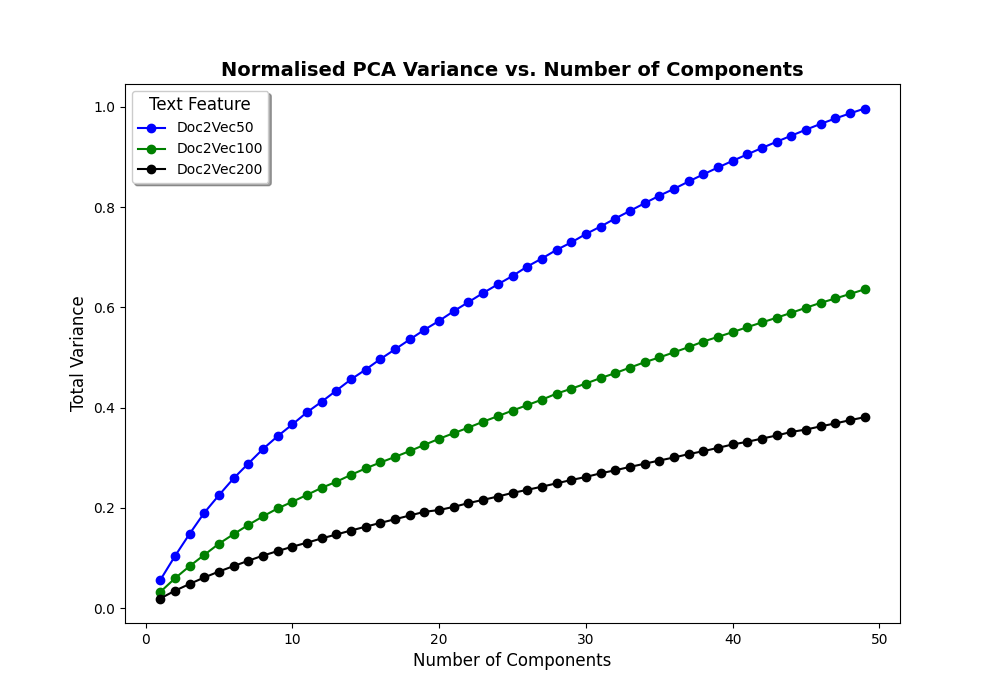
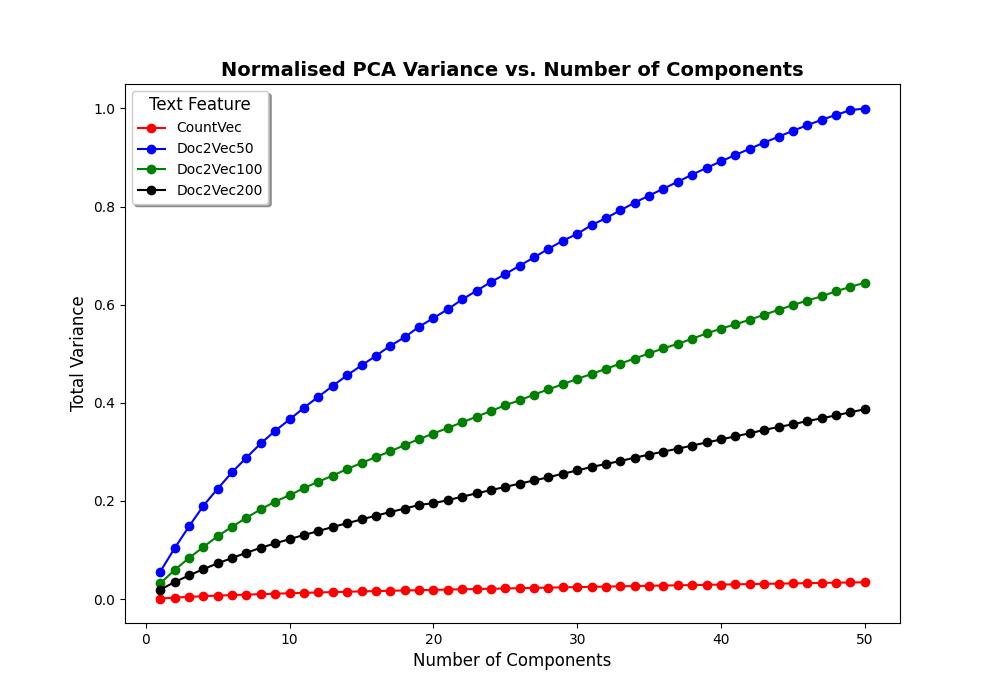
Implementing ensembling

diff --git a/ass2/PCA.py b/ass2/PCA.py
@@ -1,9 +1,12 @@
 import pickle
+from math import floor
+
 import matplotlib.pyplot as plt
 from mpl_toolkits.mplot3d import Axes3D
 from sklearn.decomposition import PCA
 from sklearn.decomposition import TruncatedSVD
 from sklearn.preprocessing import StandardScaler
+from sklearn.preprocessing import Normalizer
 
 plt.rcParams['figure.figsize'] = [10, 7]
 import numpy as np
@@ -12,7 +15,7 @@ import pandas as pd
 
 # ------- Plotting graphs for smaller number of principle components
 # If changing n will have to change graphs
-def plot_pca_components(datasets_dict, low_rating, med_rating, high_rating):
+def plot_pca_components_3d(datasets_dict, low_rating, med_rating, high_rating):
     n = 3
 
     pca = PCA(n_components=n)
@@ -48,32 +51,108 @@ def plot_pca_components(datasets_dict, low_rating, med_rating, high_rating):
         ax.set_title(f"PCA for {name} with {n} Components", weight="bold", size=14)
         plt.show()
 
+def plot_pca_components_2d(datasets_dict, low_rating, med_rating, high_rating):
+    n = 2
+
+    pca = PCA(n_components=n)
+    tsvd = TruncatedSVD(n_components=n)
+
+    i = 1
+    for name, dataset in datasets_dict.items():
+        #PCA cant be used for Sparse matrices, but seems truncatedSVD is better for text processing anyway? Need to read more
+        if name == "Count Vectoriser":
+            dataset_reduced = tsvd.fit_transform(dataset)
+            # dataset_reduced = Normalizer(copy=False).fit_transform(dataset_reduced)
+            print(f"Variance explained by each PC for {name}: ", tsvd.explained_variance_ratio_)
+            print(f"Total variance: {np.sum(tsvd.explained_variance_ratio_)}")
+        else:
+            dataset_reduced = pca.fit_transform(dataset)
+            # dataset_reduced = Normalizer(copy=False).fit_transform(dataset_reduced)
+            print(f"Variance explained by each PC for {name}: ", pca.explained_variance_ratio_)
+            print(f"Total variance: {np.sum(pca.explained_variance_ratio_)}")
+
+        plt.rcParams['figure.figsize'] = [10, 7]
+        # "s" changes size of circles
+        if i >= 3:
+            plt.subplot(2, 2, i)
+        else:
+            plt.subplot(2, 2, i)
+
+        i+=1
+
+        # reordering these would probably change which dots are in front of the rest
+        plt.scatter(dataset_reduced[high_rating, 0], dataset_reduced[high_rating, 1], c='green',
+                    s=1, label='5')
+        plt.scatter(dataset_reduced[med_rating, 0], dataset_reduced[med_rating, 1],  c='orange',
+                    s=1, label='3')
+        plt.scatter(dataset_reduced[low_rating, 0], dataset_reduced[low_rating, 1],  c='red',
+                    s=1, label='1')
+        plt.xlabel('1st Principal Component', size=10)
+        plt.ylabel('2nd Principal Component', size=10)
+
+        # plt.legend(loc='upper left', shadow=True, title="Rating",
+        #            title_fontsize=12)
+        if i == 2:
+            plt.legend(loc='auto', shadow=True, title="Class Rating",
+                       title_fontsize=10)
+            plt.title(f"Truncated SVD for {name}", weight="bold", size=12)
+        else:
+            plt.title(f"PCA for {name}", weight="bold", size=12)
+
+    plt.tight_layout()
+    plt.show()
+
+
 # ----- Generating a graph for variance vs. n_components for each text feature
 # Not to be used with CountVec
-def plot_pca_components_vs_variance(datasets_dict, n_components, normalised=False):
-    variances = {"Doc2Vec50": [], "Doc2Vec100": [], "Doc2Vec200": []}
+def plot_pca_components_vs_variance(datasets_dict, n_components):
+    variances_norm = {"Count Vectoriser": [], "Doc2Vec50": [], "Doc2Vec100": [], "Doc2Vec200": []}
+    variances_unnorm = {"Count Vectoriser": [], "Doc2Vec50": [], "Doc2Vec100": [], "Doc2Vec200": []}
     scaler = StandardScaler()
-    for n in range(1, n_components+1):
-        pca = PCA(n_components=n)
-        for name, dataset in datasets_dict.items():
-            if normalised:
-                scaled = scaler.fit_transform(dataset)
-                pca.fit(scaled)
-                variances[name].append(np.sum(pca.explained_variance_ratio_))
-            else:
-                pca.fit(dataset)
-                variances[name].append(np.sum(pca.explained_variance_ratio_))
+    normalised = [True, False]
+    for norm in normalised:
+        for n in range(1, n_components+1):
+            pca = PCA(n_components=n)
+            tsvd = TruncatedSVD(n_components=n)
+            for name, dataset in datasets_dict.items():
+                if norm:
+                    if name == "Count Vectoriser":
+                        scaler_new = StandardScaler(with_mean=False)
+                        scaled = scaler_new.fit_transform(dataset)
+                        tsvd.fit(scaled)
+                        variances_norm[name].append(np.sum(tsvd.explained_variance_ratio_))
+                    else:
+                        scaled = scaler.fit_transform(dataset)
+                        pca.fit(scaled)
+                        variances_norm[name].append(np.sum(pca.explained_variance_ratio_))
+                else:
+                    if name == "Count Vectoriser":
+                        tsvd.fit(dataset)
+                        variances_unnorm[name].append(np.sum(tsvd.explained_variance_ratio_))
+                    else:
+                        pca.fit(dataset)
+                        variances_unnorm[name].append(np.sum(pca.explained_variance_ratio_))
 
-    plt.plot(range(1, n_components+1), variances["Doc2Vec50"], 'bo', linestyle='-', label="Doc2Vec50")
-    plt.plot(range(1, n_components+1), variances["Doc2Vec100"], 'go', linestyle='-', label="Doc2Vec100")
-    plt.plot(range(1, n_components+1), variances["Doc2Vec200"], 'ko', linestyle='-', label="Doc2Vec200")
+    plt.subplot(2,1,1)
+    plt.plot(range(1, n_components + 1), variances_norm["Count Vectoriser"], 'ro', linestyle='-', label="CountVec")
+    plt.plot(range(1, n_components + 1), variances_norm["Doc2Vec50"], 'bo', linestyle='-', label="Doc2Vec50")
+    plt.plot(range(1, n_components + 1), variances_norm["Doc2Vec100"], 'go', linestyle='-', label="Doc2Vec100")
+    plt.plot(range(1, n_components + 1), variances_norm["Doc2Vec200"], 'ko', linestyle='-', label="Doc2Vec200")
     plt.legend(loc='upper left', shadow=True, title="Text Feature", title_fontsize=12)
     plt.xlabel("Number of Components", size=12)
     plt.ylabel("Total Variance", size=12)
-    if normalised:
-        plt.title("Normalised PCA Variance vs. Number of Components", weight="bold", size=14)
-    else:
-        plt.title("Unnormalised PCA Variance vs. Number of Components", weight="bold", size=14)
+    plt.title("Normalised PCA Variance vs. Number of Components", weight="bold", size=14)
+
+    plt.subplot(2, 1, 2)
+    plt.plot(range(1, n_components + 1), variances_unnorm["Count Vectoriser"], 'ro', linestyle='-', label="CountVec")
+    plt.plot(range(1, n_components + 1), variances_unnorm["Doc2Vec50"], 'bo', linestyle='-', label="Doc2Vec50")
+    plt.plot(range(1, n_components + 1), variances_unnorm["Doc2Vec100"], 'go', linestyle='-', label="Doc2Vec100")
+    plt.plot(range(1, n_components + 1), variances_unnorm["Doc2Vec200"], 'ko', linestyle='-', label="Doc2Vec200")
+    plt.legend(loc='upper left', shadow=True, title="Text Feature", title_fontsize=12)
+    plt.xlabel("Number of Components", size=12)
+    plt.ylabel("Total Variance", size=12)
+    plt.title("Unnormalised PCA Variance vs. Number of Components", weight="bold", size=14)
+    plt.tight_layout()
     plt.show()
 
 
@@ -105,9 +184,9 @@ if __name__ == "__main__":
     # -------------- PCA
     datasets_dict = {"Count Vectoriser": count_vec, "Doc2Vec50": d2v50, "Doc2Vec100": d2v100, "Doc2Vec200": d2v200}
     datasets_dict_noCV = {"Doc2Vec50": d2v50, "Doc2Vec100": d2v100, "Doc2Vec200": d2v200}
-    
-    #plot_pca_components(datasets_dict, low_rating, med_rating, high_rating)
-    #plot_pca_components_vs_variance(datasets_dict_noCV, 50, normalised=False)
+
+    # plot_pca_components_2d(datasets_dict, low_rating, med_rating, high_rating)
+    plot_pca_components_vs_variance(datasets_dict, 50)
 
 
 ## Tested the effects or normalising (feature/column wise) each doc2vec output before PCA.

diff --git a/ass2/LR.py b/ass2/LR.py
@@ -20,6 +20,7 @@ import pandas as pd
 
 from svm import learning_curve
 from generate_docvecs import get_dot2vec_split
+from generate_docvecs import get_doc2vec_crossval
 
 RANDOM_STATE = 7
 CV = 10
@@ -169,7 +170,7 @@ def plot_lgr_C(c_range=np.logspace(-4, 4, 30)):
 # ---------- Selecting K-best CountVec features and adding them to Doc2vec50
 # Asking: Does Doc2Vec encompass the same information CountVec does, or can the best features from CountVec
 # add additional info (and therefore predictive capability) to a model?
-def run_lgr_kbest_countvec_to_d2v(count_vec, d2v50, class_labels, n_CV_splits, feature_names, K=30):
+def run_lgr_kbest_countvec_to_d2v(count_vec, d2v50, class_labels, n_CV_splits, feature_names, K=100):
     kf = StratifiedKFold(n_splits=n_CV_splits, shuffle=True, random_state=RANDOM_STATE)
     lgr = LogisticRegression(max_iter=200)
     avg_acc = []
@@ -380,54 +381,6 @@ def plot_lgr_learning_curve():
     plt.show()
 
 
-# ---------- AdaBoosting Logistic Regression for Doc2Vec
-def run_adaboost_d2v(dim, n_CV_splits):
-    train_eval = {
-        "dim": [],
-        "fscore": [],
-        "accuracy": []
-    }
-    clf = AdaBoostClassifier(base_estimator=LogisticRegression(max_iter=200), random_state=RANDOM_STATE)
-    kf = StratifiedKFold(n_splits=n_CV_splits, shuffle=True, random_state=RANDOM_STATE)
-    for d in range(25, dim+1, 25):
-        Xtrain, Xtest, ytrain, ytest = get_dot2vec_split(d)
-        train_x = pd.concat([Xtrain, Xtest], ignore_index=True, sort=False)
-        train_y = pd.concat([ytrain, ytest], ignore_index=True, sort=False)
-        del Xtrain, Xtest, ytest, ytrain
-
-        acc = []
-        fscore = []
-
-        for train, test in kf.split(train_x, train_y):
-            clf.fit(train_x.loc[train], class_labels.loc[train])
-            acc.append(clf.score(train_x.loc[test], train_y.loc[test]))
-            predicted = clf.predict(train_x.loc[test])
-            fscore.append(f1_score(train_y.loc[test], predicted, average='weighted'))
-        train_eval['dim'].append(d)
-        train_eval['accuracy'].append(np.average(fscore))
-        train_eval['fscore'].append(np.average(acc))
-
-    pd.DataFrame(train_eval).to_csv("./results/lgr/adaboost.csv")
-
-
-# ---------- Graph of Above
-def plot_adaboost_d2v():
-    adaboost = pd.read_csv("./results/lgr/adaboost.csv", index_col=0, header=0)
-
-    plt.rcParams['figure.figsize'] = [10, 7]
-    plt.ylim(0.2, 1)
-
-    plt.plot(adaboost['dim'], adaboost['fscore'], 'go', linestyle='-', label="F1 Score")
-    plt.plot(adaboost['dim'], adaboost['accuracy'], 'yo', linestyle='-', label="Accuracy")
-
-    plt.legend(loc='upper left', shadow=True)
-    plt.xlabel("Doc2Vec Dimensionality", size=12)
-    plt.ylabel("Evaluation Value", size=12)
-    plt.title("Adaboost Performance for Logistic Regression vs. Doc2Vec Dimensionality",
-              weight="bold", size=14)
-    plt.show()
-
-
 # ---------- AdaBoost Logistic Regression, Logisitic Regression, and AdaB Decision Tree
 def run_ensemble_compare(dim, n_CV_splits):
     eval_dict = {
@@ -435,13 +388,7 @@ def run_ensemble_compare(dim, n_CV_splits):
         "fscore": [],
         "accuracy": []
     }
-    Xtrain, Xtest, ytrain, ytest = get_dot2vec_split(dim)
-    train_x = pd.concat([Xtrain, Xtest], ignore_index=True, sort=False)
-    train_y = pd.concat([ytrain, ytest], ignore_index=True, sort=False)
-    print(train_x.head(10))
-    del Xtrain, Xtest, ytest, ytrain
 
-    kf = StratifiedKFold(n_splits=n_CV_splits, shuffle=True, random_state=RANDOM_STATE)
     ab_lgr = AdaBoostClassifier(base_estimator=LogisticRegression(max_iter=200), random_state=RANDOM_STATE)
     ab_dt = AdaBoostClassifier(base_estimator=LogisticRegression(max_iter=200), random_state=RANDOM_STATE)
     lgr = LogisticRegression(max_iter=200)
@@ -450,11 +397,14 @@ def run_ensemble_compare(dim, n_CV_splits):
     for name, clf in clfs.items():
         acc = []
         fscore = []
-        for train, test in kf.split(train_x, train_y):
-            clf.fit(train_x.loc[train], class_labels.loc[train])
-            acc.append(clf.score(train_x.loc[test], train_y.loc[test]))
-            predicted = clf.predict(train_x.loc[test])
-            fscore.append(f1_score(train_y.loc[test], predicted, average='weighted'))
+        i=0
+        for Xtrain, Xtest, ytrain, ytest in get_doc2vec_crossval(dim, n_CV_splits):
+            print(i)
+            i+=1
+            clf.fit(Xtrain, ytrain)
+            acc.append(clf.score(Xtest, ytest))
+            predicted = clf.predict(Xtest)
+            fscore.append(f1_score(ytest, predicted, average='weighted'))
         eval_dict['clf'].append(name)
         eval_dict['accuracy'].append(np.average(fscore))
         eval_dict['fscore'].append(np.average(acc))
@@ -536,5 +486,5 @@ if __name__ == "__main__":
     # run_adaboost_d2v(300, 5)
     # plot_adaboost_d2v()
 
-    # run_ensemble_compare(150, 5)
+    run_ensemble_compare(150, 5)
     plot_ensemble_compare()
